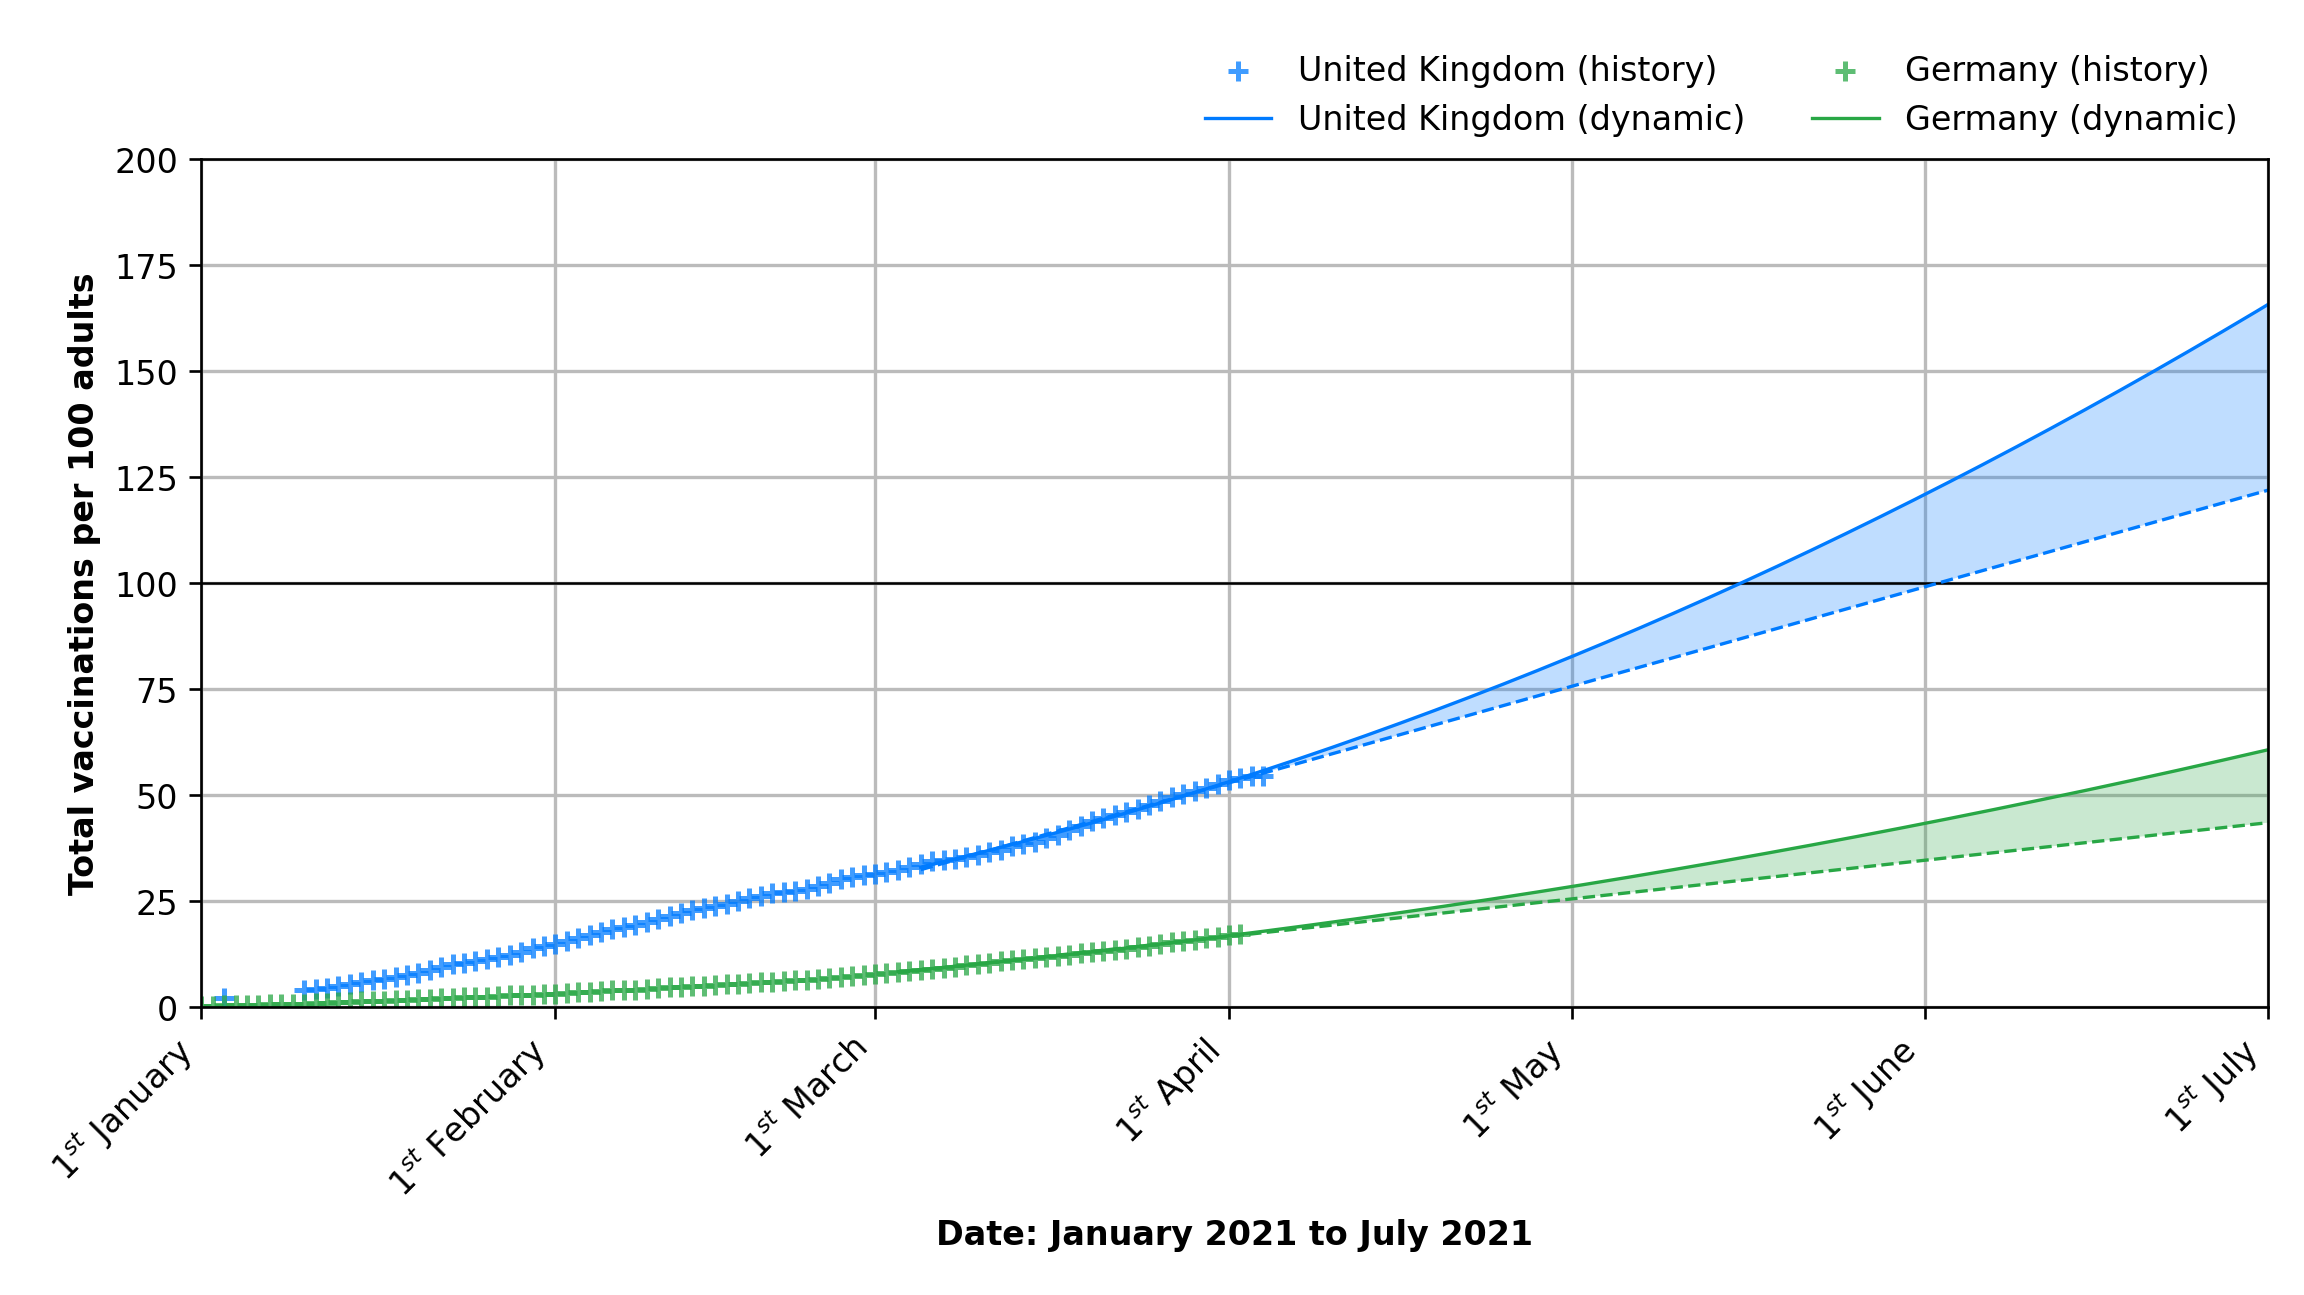
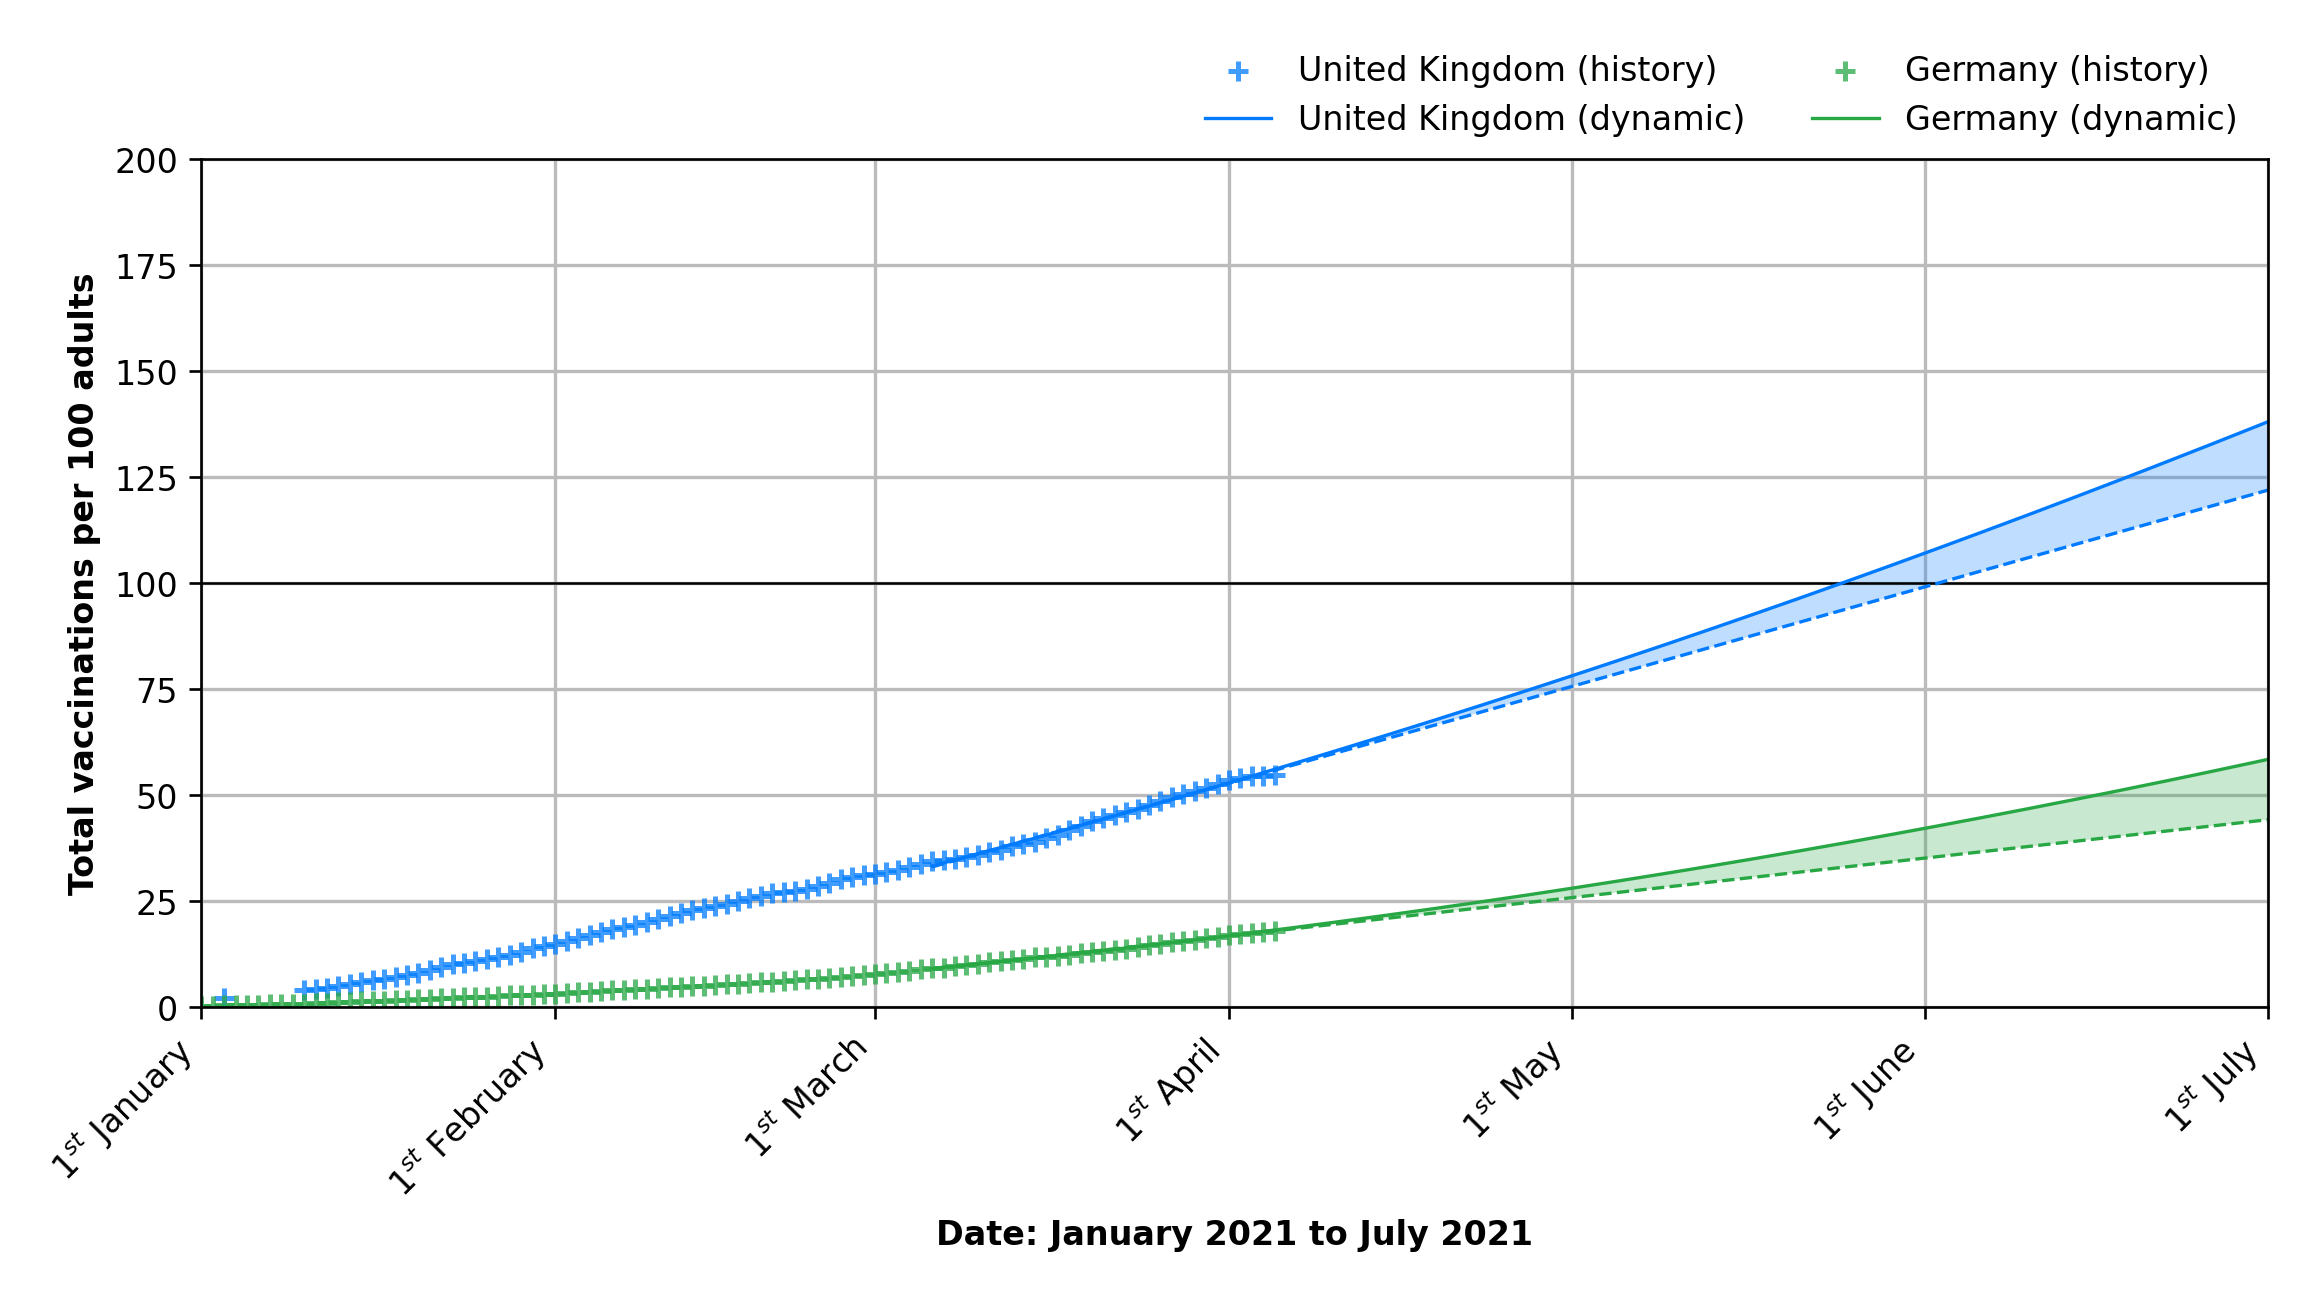
Deploying to gh-pages from @ lambdapioneer/vactrend@0b151e50bae144ff27c39ffb07cd62d871ed93a9 🚀

diff --git a/index.html b/index.html
@@ -37,13 +37,13 @@
                 <div class="card">
                     <div class="card-header">🇬🇧 United Kingdom</div>
                     <div class="card-body">
-                        <h3 class="font-weight-bold" style="color: #007bff">54.52 <small>(+0.14/d)</small></h3>
+                        <h3 class="font-weight-bold" style="color: #007bff">54.68 <small>(+0.16/d)</small></h3>
                         <p class="mt-n2">Vaccinations per 100 adults</p>
-                        <h3 class=" font-weight-bold">16 May 2021</h3>
+                        <h3 class=" font-weight-bold">25 May 2021</h3>
                         <p class="mt-n2">Earliest day: 100 vacc. per 100 adults</p>
-                        <h3 class=" font-weight-bold">22 July 2021</h3>
+                        <h3 class=" font-weight-bold">24 August 2021</h3>
                         <p class="mt-n2">Earliest day: 200 vacc. per 100 adults</p>
-                        <p class="card-text"><small class="text-muted">Last data from 04 April 2021.</small></p>
+                        <p class="card-text"><small class="text-muted">Last data from 05 April 2021.</small></p>
                     </div>
                 </div>
             </div>
@@ -52,13 +52,13 @@
                 <div class="card">
                     <div class="card-header">🇩🇪 Germany</div>
                     <div class="card-body">
-                        <h3 class="font-weight-bold" style="color: #28a745">17.16 <small>(+0.26/d)</small></h3>
+                        <h3 class="font-weight-bold" style="color: #28a745">17.99 <small>(+0.28/d)</small></h3>
                         <p class="mt-n2">Vaccinations per 100 adults</p>
-                        <h3 class=" font-weight-bold">26 August 2021</h3>
+                        <h3 class=" font-weight-bold">02 September 2021</h3>
                         <p class="mt-n2">Earliest day: 100 vacc. per 100 adults</p>
-                        <h3 class=" font-weight-bold">08 December 2021</h3>
+                        <h3 class=" font-weight-bold">21 December 2021</h3>
                         <p class="mt-n2">Earliest day: 200 vacc. per 100 adults</p>
-                        <p class="card-text"><small class="text-muted">Last data from 02 April 2021.</small></p>
+                        <p class="card-text"><small class="text-muted">Last data from 05 April 2021.</small></p>
                     </div>
                 </div>
             </div>
